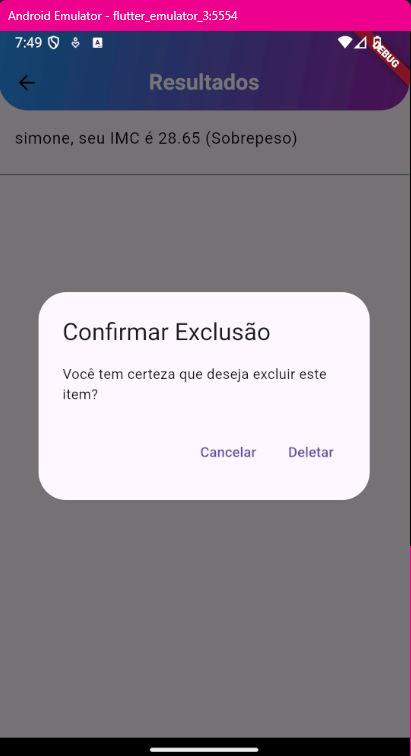
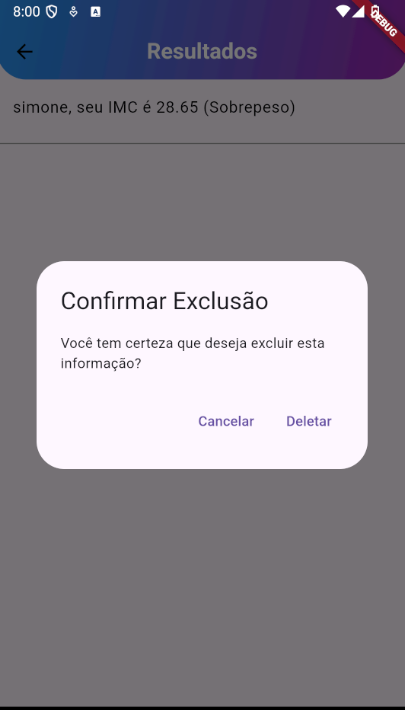
alterado erros de digitacao

diff --git a/lib/resultado.dart b/lib/resultado.dart
@@ -25,7 +25,7 @@ class _ResultScreenState extends State<ResultScreen> {
       builder: (BuildContext context) {
         return AlertDialog(
           title: Text('Confirmar Exclusão'),
-          content: Text('Você tem certeza que deseja excluir este item?'),
+          content: Text('Você tem certeza que deseja excluir esta informação?'),
           actions: [
             TextButton(
               onPressed: () {
